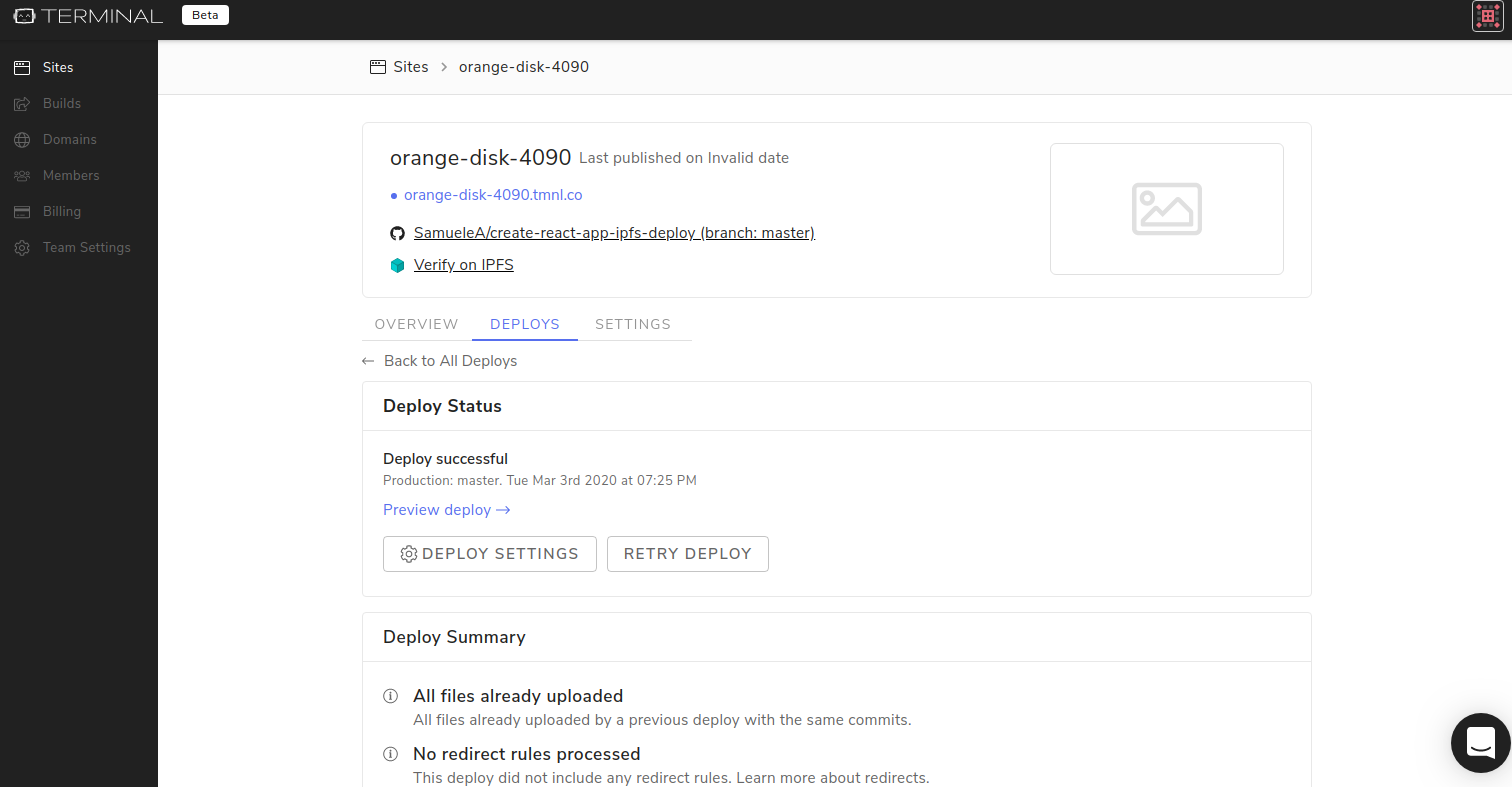
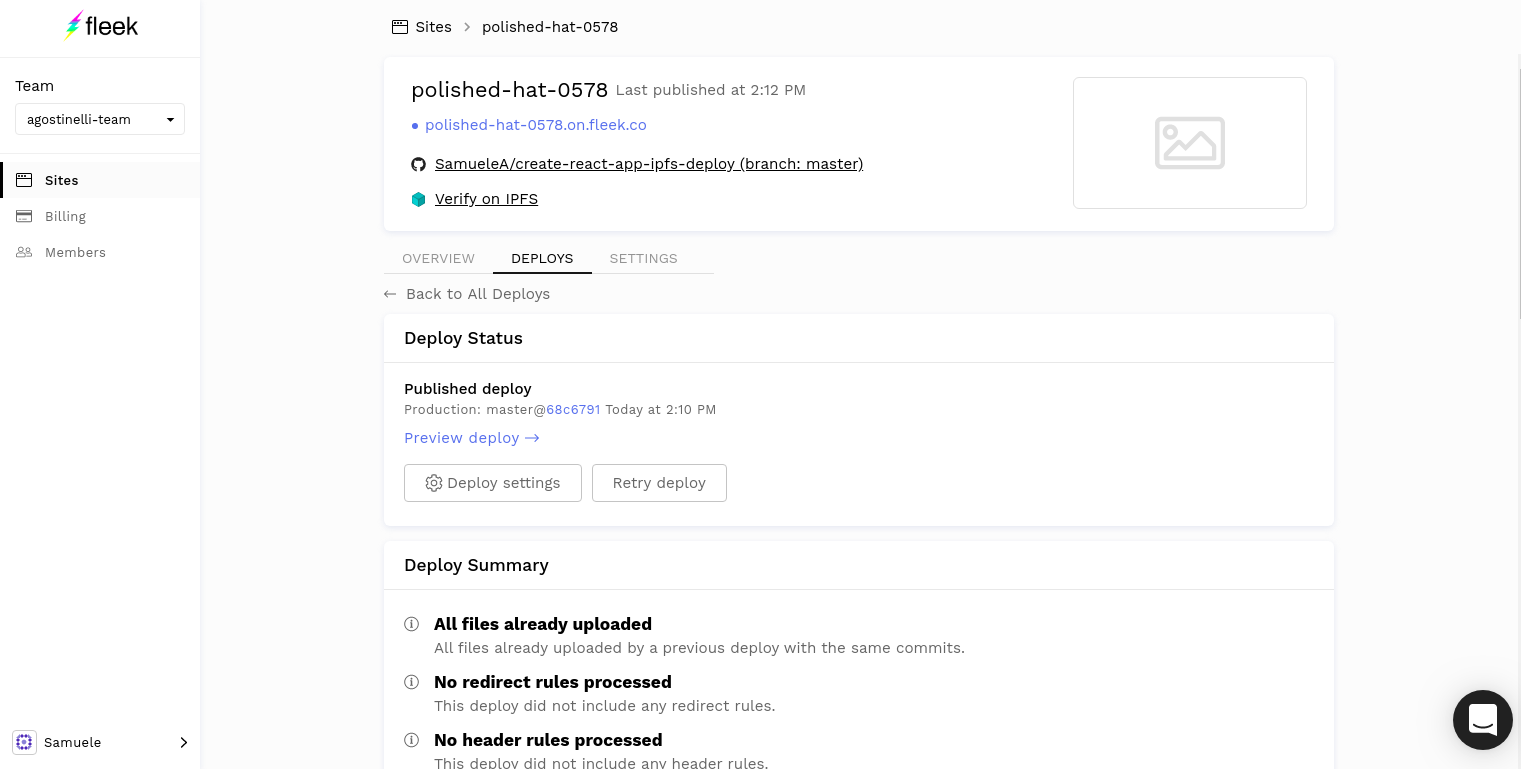
create react app update

diff --git a/content/posts/2020-03-10-create-and-deploy-a-react-application-to-ipfs-in-under-ten-minutes.md b/content/posts/2020-03-10-create-and-deploy-a-react-application-to-ipfs-in-under-ten-minutes.md
@@ -1,7 +1,7 @@
 ---
 template: post
 title: Create and Deploy a React Application to IPFS in Under Ten Minutes
-slug: terminal-create-react-app
+slug: fleek-create-react-app
 draft: false
 date: 2020-03-10T02:38:34.993Z
 description: >-
@@ -51,6 +51,8 @@ Upon first signing up on Fleek, we are asked to add a new site.
 
 Next, we input additional information such as the repo branch, the build commands and the build directory. Luckily for us, the default values will work perfectly so there is no need to change anything. Clicking the “Deploy Site” button at the bottom will commence the deployment.
 
+Note: The default docker image is `fleek/create-react-app` which runs the latest node.js version (13 as of this writing). If you have an app requiring another version, you can specify it in the docker tag. EG: For node 10, `fleek/create-react-app:node-10`
+
 ![](/media/4reactapp.png)
 
 The deployment is in progress! In a few minutes, we’ll have access to our deployed app. The deploy log at the bottom of the page tracks the progress of the deployment.
@@ -61,7 +63,7 @@ Success! The deployment worked and the yellow indicator at the top turned blue a
 
 ![](/media/6-og-success.png)
 
-Here is the link to see the result: <https://orange-disk-4090.tmnl.co/> You can also click on the “Verify on IPFS” link which will lead you to an IPFS gateway using the IPFS hash, where the app can be admired in all its distributed, uncensorable glory. Creating the default react app and deploying it to IPFS literally takes less than 10 minutes, so I invite you to create and deploy your own application by signing up for [Fleek](https://app.fleek.co).
+Here is the link to see the result: <https://polished-hat-0578.on.fleek.co/> You can also click on the “Verify on IPFS” link which will lead you to an IPFS gateway using the IPFS hash, where the app can be admired in all its distributed, uncensorable glory. Creating the default react app and deploying it to IPFS literally takes less than 10 minutes, so I invite you to create and deploy your own application by signing up for [Fleek](https://app.fleek.co).
 
 **\
 Documentation** 
